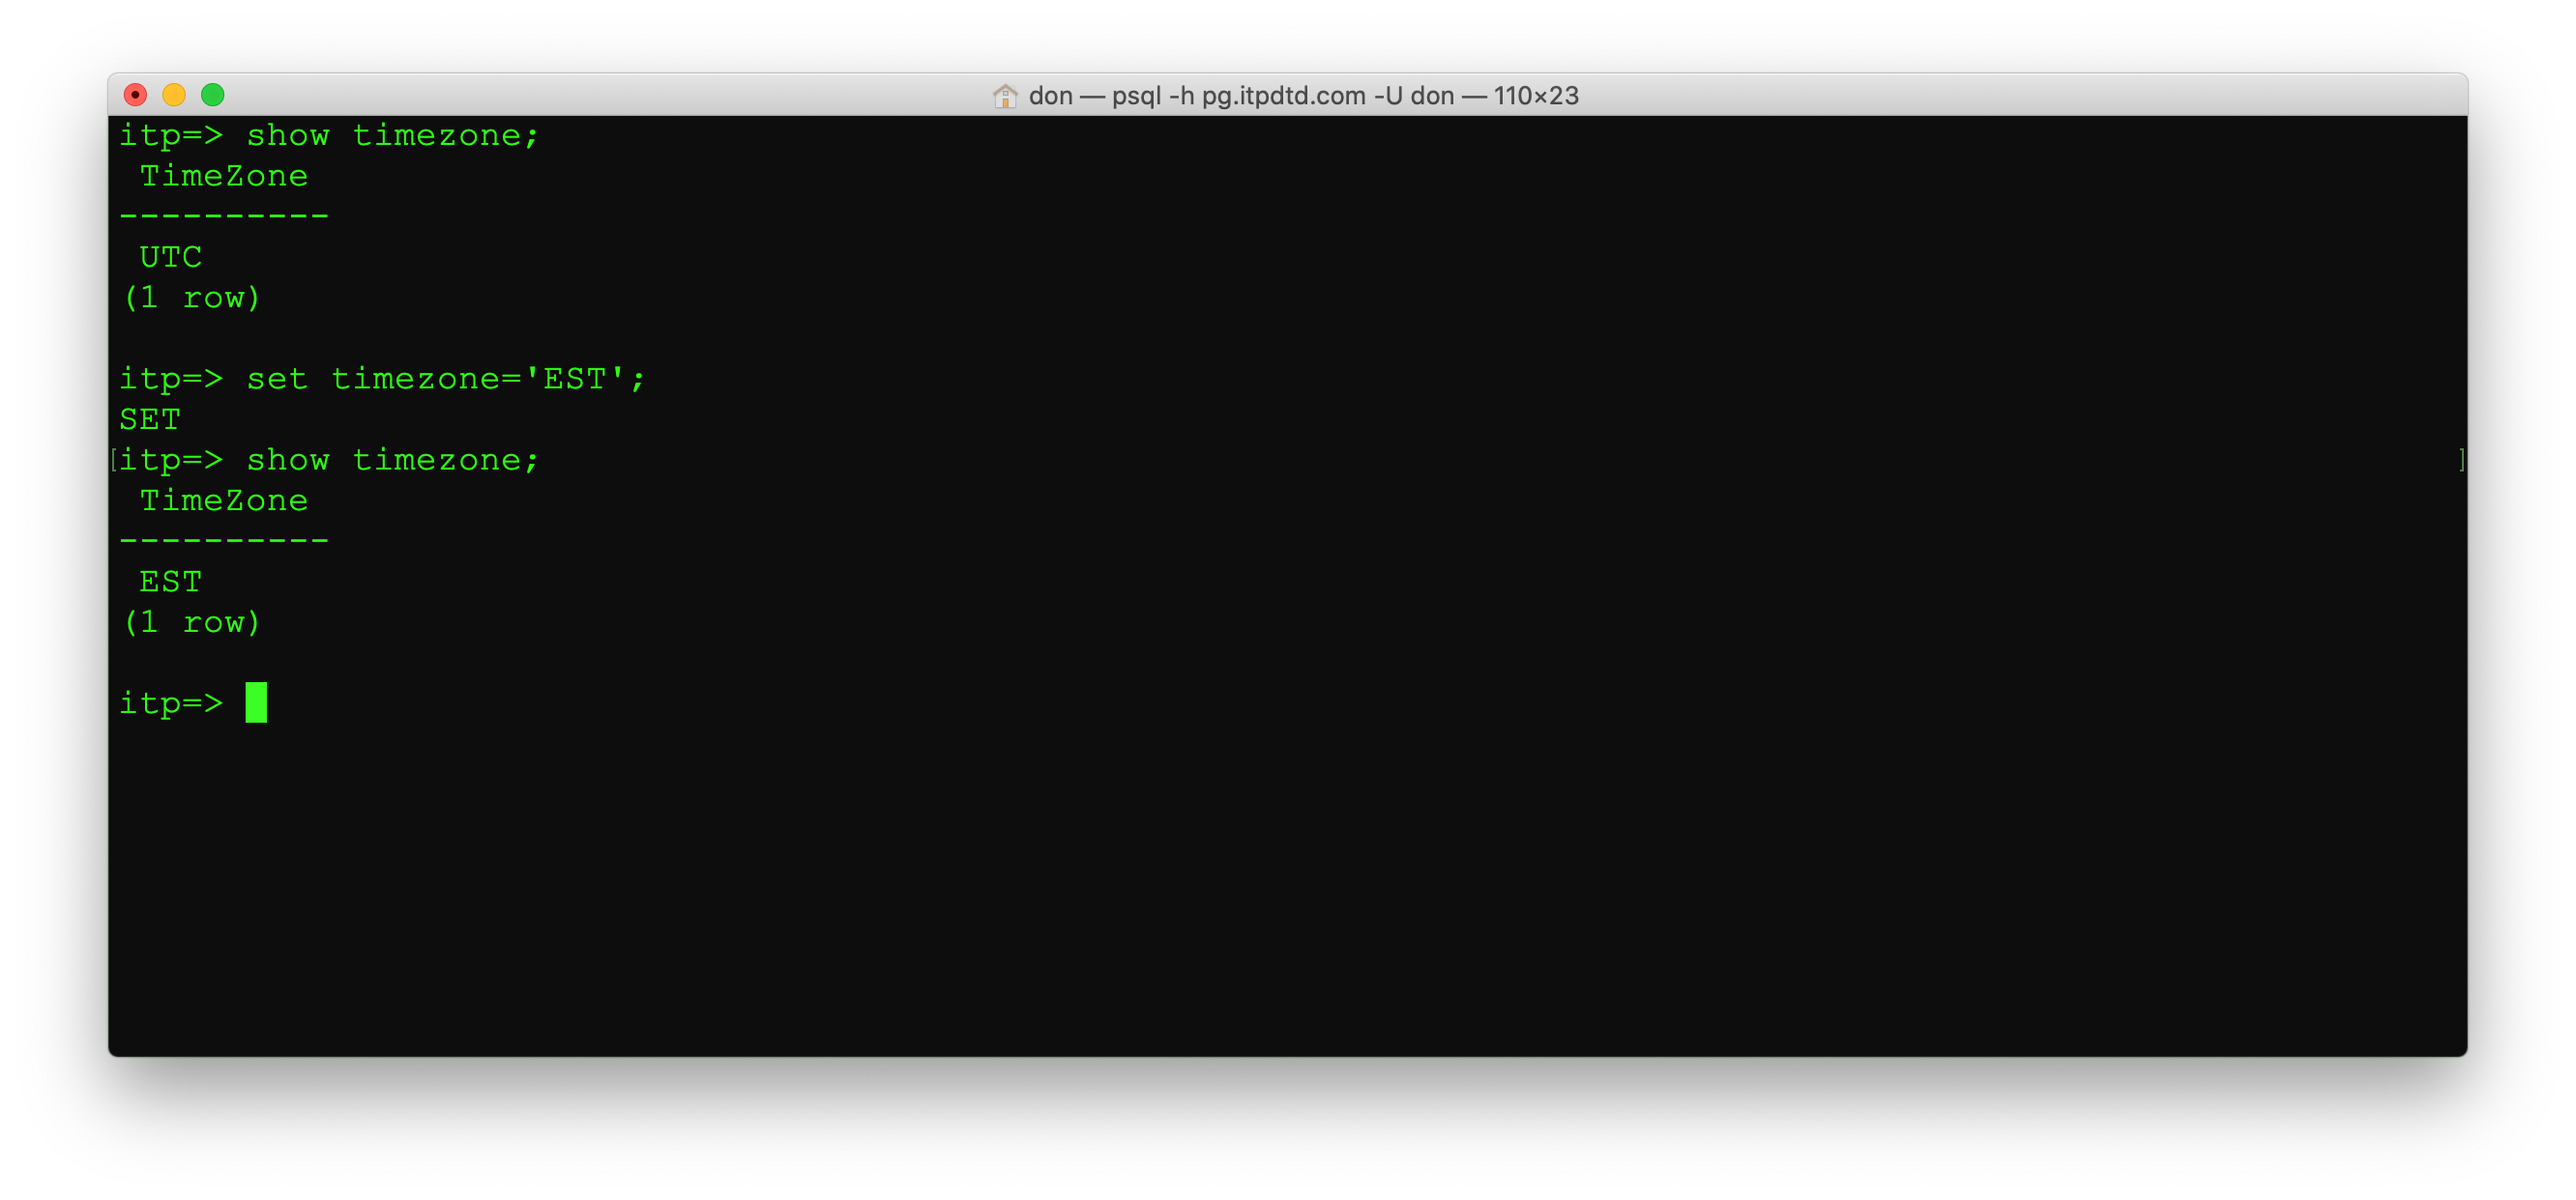
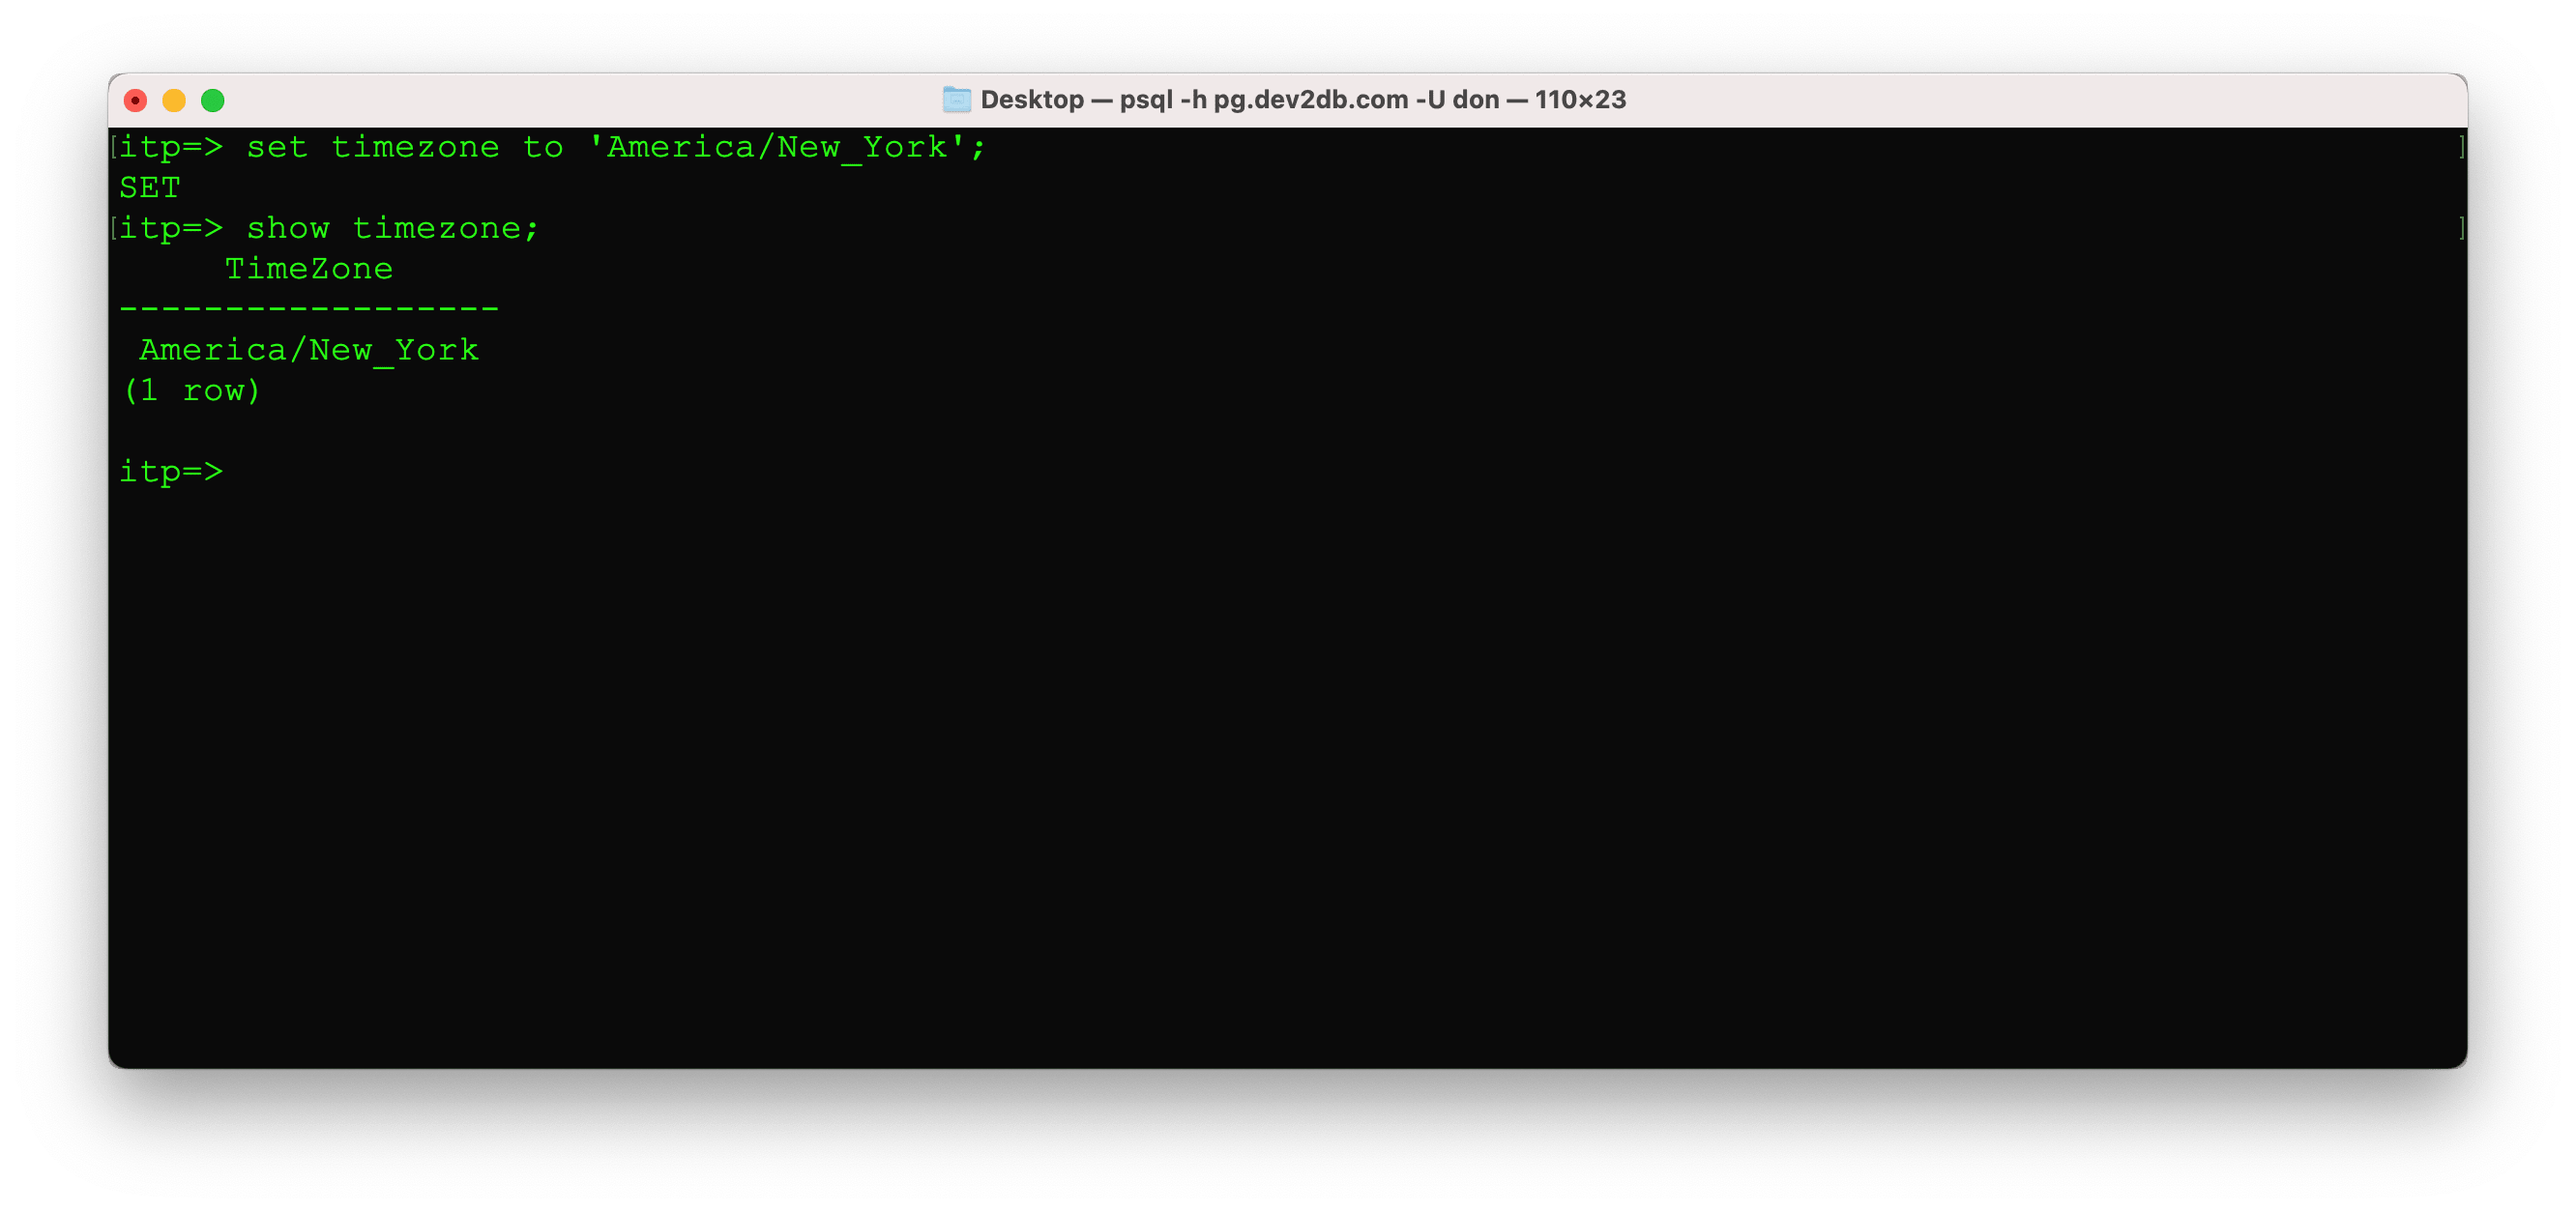
update

Changed region(s): [[0.0312, 0.0612, 0.9658, 0.2448], [0.0312, 0.2448, 0.2492, 0.4283], [0.0623, 0.5507, 0.1246, 0.6119]]

diff --git a/03_RelationalDatabases/postgres.md b/03_RelationalDatabases/postgres.md
@@ -47,7 +47,9 @@ How do you get access to a database? We need a client.
 
 ### Clients
 
-Postgres has a command line client `psql`. We'll start there. There are also GUI clients like [pgAdmin](https://pgadmin.org). There are more generic database tools like [JetBrains DataGrip](https://www.jetbrains.com/datagrip/) and lots of open source database tools. JetBrains makes excellent tools and they have [free licenses for students](https://www.jetbrains.com/student/).
+Postgres has a command line client `psql`. We'll start there. There are also GUI clients like [pgAdmin](https://pgadmin.org). There are more generic database tools like [JetBrains DataGrip](https://www.jetbrains.com/datagrip/) and lots of open source database tools. JetBrains makes excellent tools and they have [free licenses for students](https://www.jetbrains.com/student/). 
+
+[TablePlus](https://tableplus.com/) database client for Mac and Windows that has support for PostgreSQL.
 
 ### psql
 
@@ -114,7 +116,7 @@ Notice that id and recorded_at are both populated in the row that was inserted. 
 Inserts some additional records.
 
     INSERT INTO mqtt_message (topic, payload) VALUES ('test', 'hi');
-    INSERT INTO mqtt_message (topic, payload) VALUES ('itp/device_12/temperature', 72.4);
+    INSERT INTO mqtt_message (topic, payload) VALUES ('itp/device12/temperature', 72.4);
 
 ![screenshot psql insert more records](img/insert-more-records.png)
 
@@ -123,6 +125,8 @@ Run the select query again to view all the records.
     SELECT * FROM mqtt_message;
 
 ![screenshot psql select after insert more records](img/select-2.png)
+
+Try in insert some records on your own. Then select to view the records.
 
 Now that you have learned to insert data into the database manually, we want to automatically insert every MQTT message into the table. There is a Node.js program running on the server the that subscribes to all MQTT topics and inserts the data into the `mqtt_messages` table in the `itp` database. 
 
@@ -258,7 +262,7 @@ We can include the min and max for each device in one query.
 We can also limit our queries by time.
 
     SELECT * FROM sensor_data 
-        WHERE recorded_at BETWEEN '2020-02-14' AND '2020-02-15';
+        WHERE recorded_at BETWEEN '2021-02-10' AND '2021-02-11';
 
 ![screenshot query using where date between](img/where-between.png)
 
@@ -274,7 +278,7 @@ Coordinated Universal Time(UTC) is a way to store time without timezones and day
 
 Fortunately we can tell `psql` what what time zone we are in and it will convert dates for us. This only effects how the data is *displayed*, not how it's stored.
 
-    set timezone='EST';
+    set timezone='America/New_York';
     show timezone;
 
 ![screenshot showing setting timezone to EST](img/set-timezone.png)
@@ -287,9 +291,11 @@ Fortunately we can tell `psql` what what time zone we are in and it will convert
 OK, back to querying. Now that we set the timezone in our client, dates are converted to EST before they are shown to us. Notice the `-05` at the end of the timestamp `2019-02-08 15:35:22.474-05`. We're seeing different dates in our result set because the dates in the BETWEEN clause are also treated as EST.
 
     SELECT * FROM sensor_data 
-        WHERE recorded_at BETWEEN '2020-02-14' AND '2020-02-15';
+        WHERE recorded_at BETWEEN '2021-02-10' AND '2020-02-11';
 
 ![screenshot showing dates in EST](img/dates-in-est.png)
+
+Instead of America/New_York you could set the timezone to Asia/Shanghai or Asia/Seoul.
 
 The database stores dates in UTC. Dates can be converted to a local timezone before being displayed to the user. Always include a timezone component in your timestamps so the conversion happens correctly.
 
